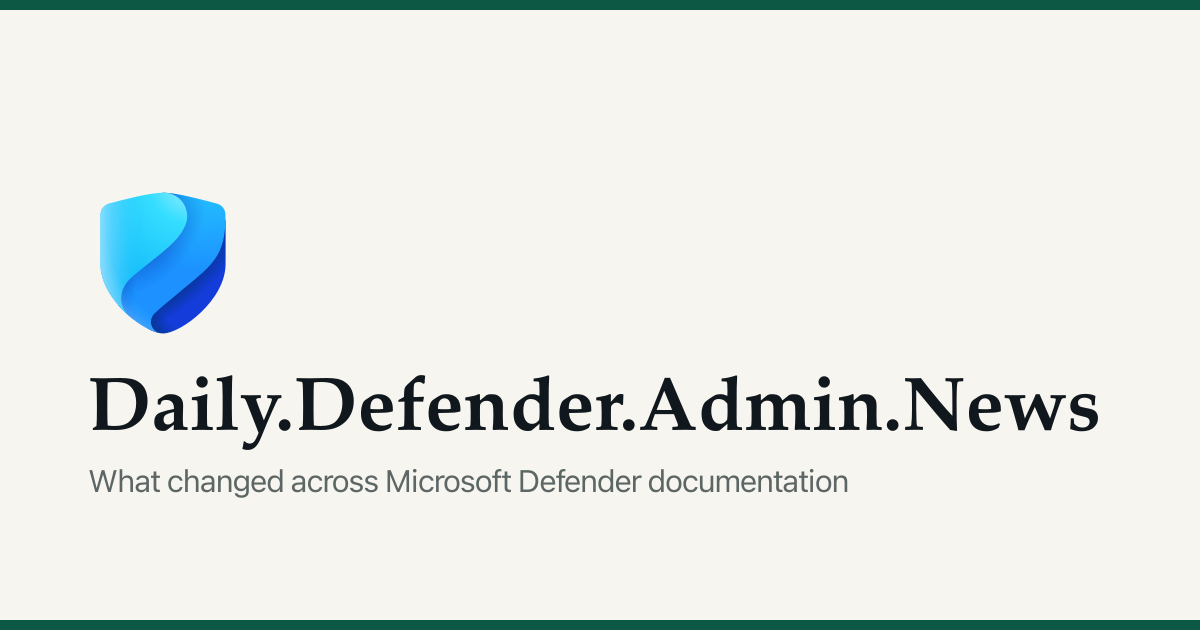
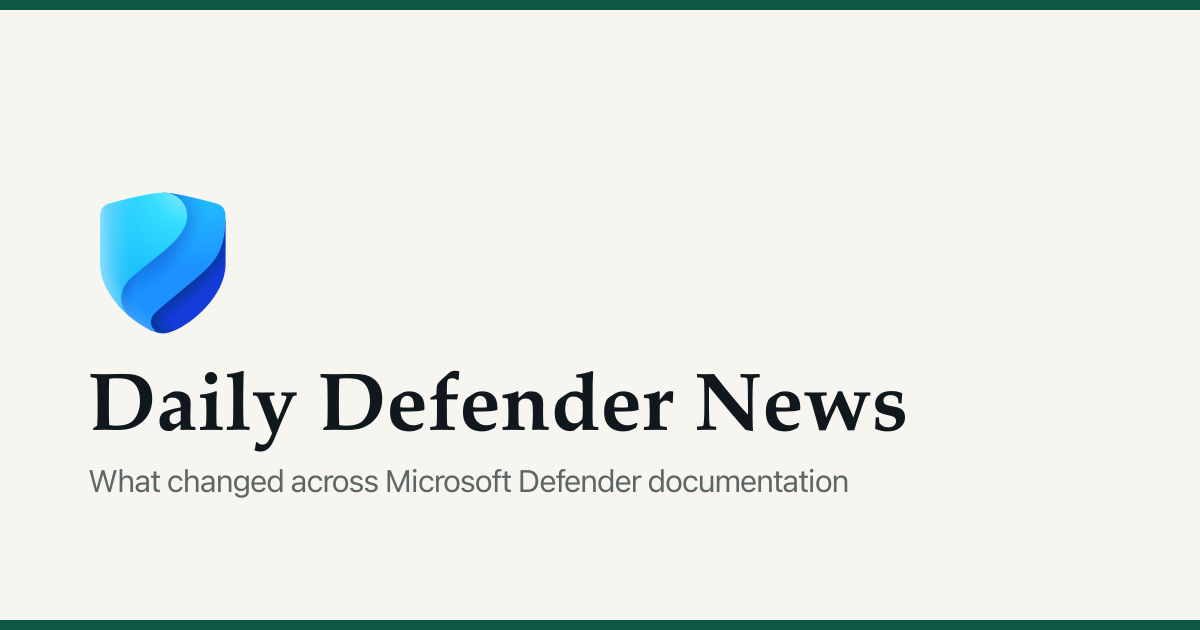
Rename the header wordmark to Daily Defender News
The header read as the domain, Daily.Defender.Admin.News. It now reads as a
name, matching daily-intune's "Daily Intune News".

brand.wordmark is used in exactly one place — the site header — so nothing else
moves. The OG image is regenerated with it, since it carried the old wording as
baked-in text and its whole job is to show the site's name.

Changed region(s): [[0.0617, 0.573, 0.925, 0.7238]]

diff --git a/dailynews.config.js b/dailynews.config.js
@@ -42,7 +42,7 @@ module.exports = {
   email: { enabled: false },
 
   brand: {
-    wordmark: 'Daily.Defender.Admin.News',
+    wordmark: 'Daily Defender News',
     ogAlt: 'Defender Daily — Microsoft Defender change intelligence',
     themeStorageKey: 'defender-news-theme',
     tokenStorageKey: 'defender-news-github-token',
